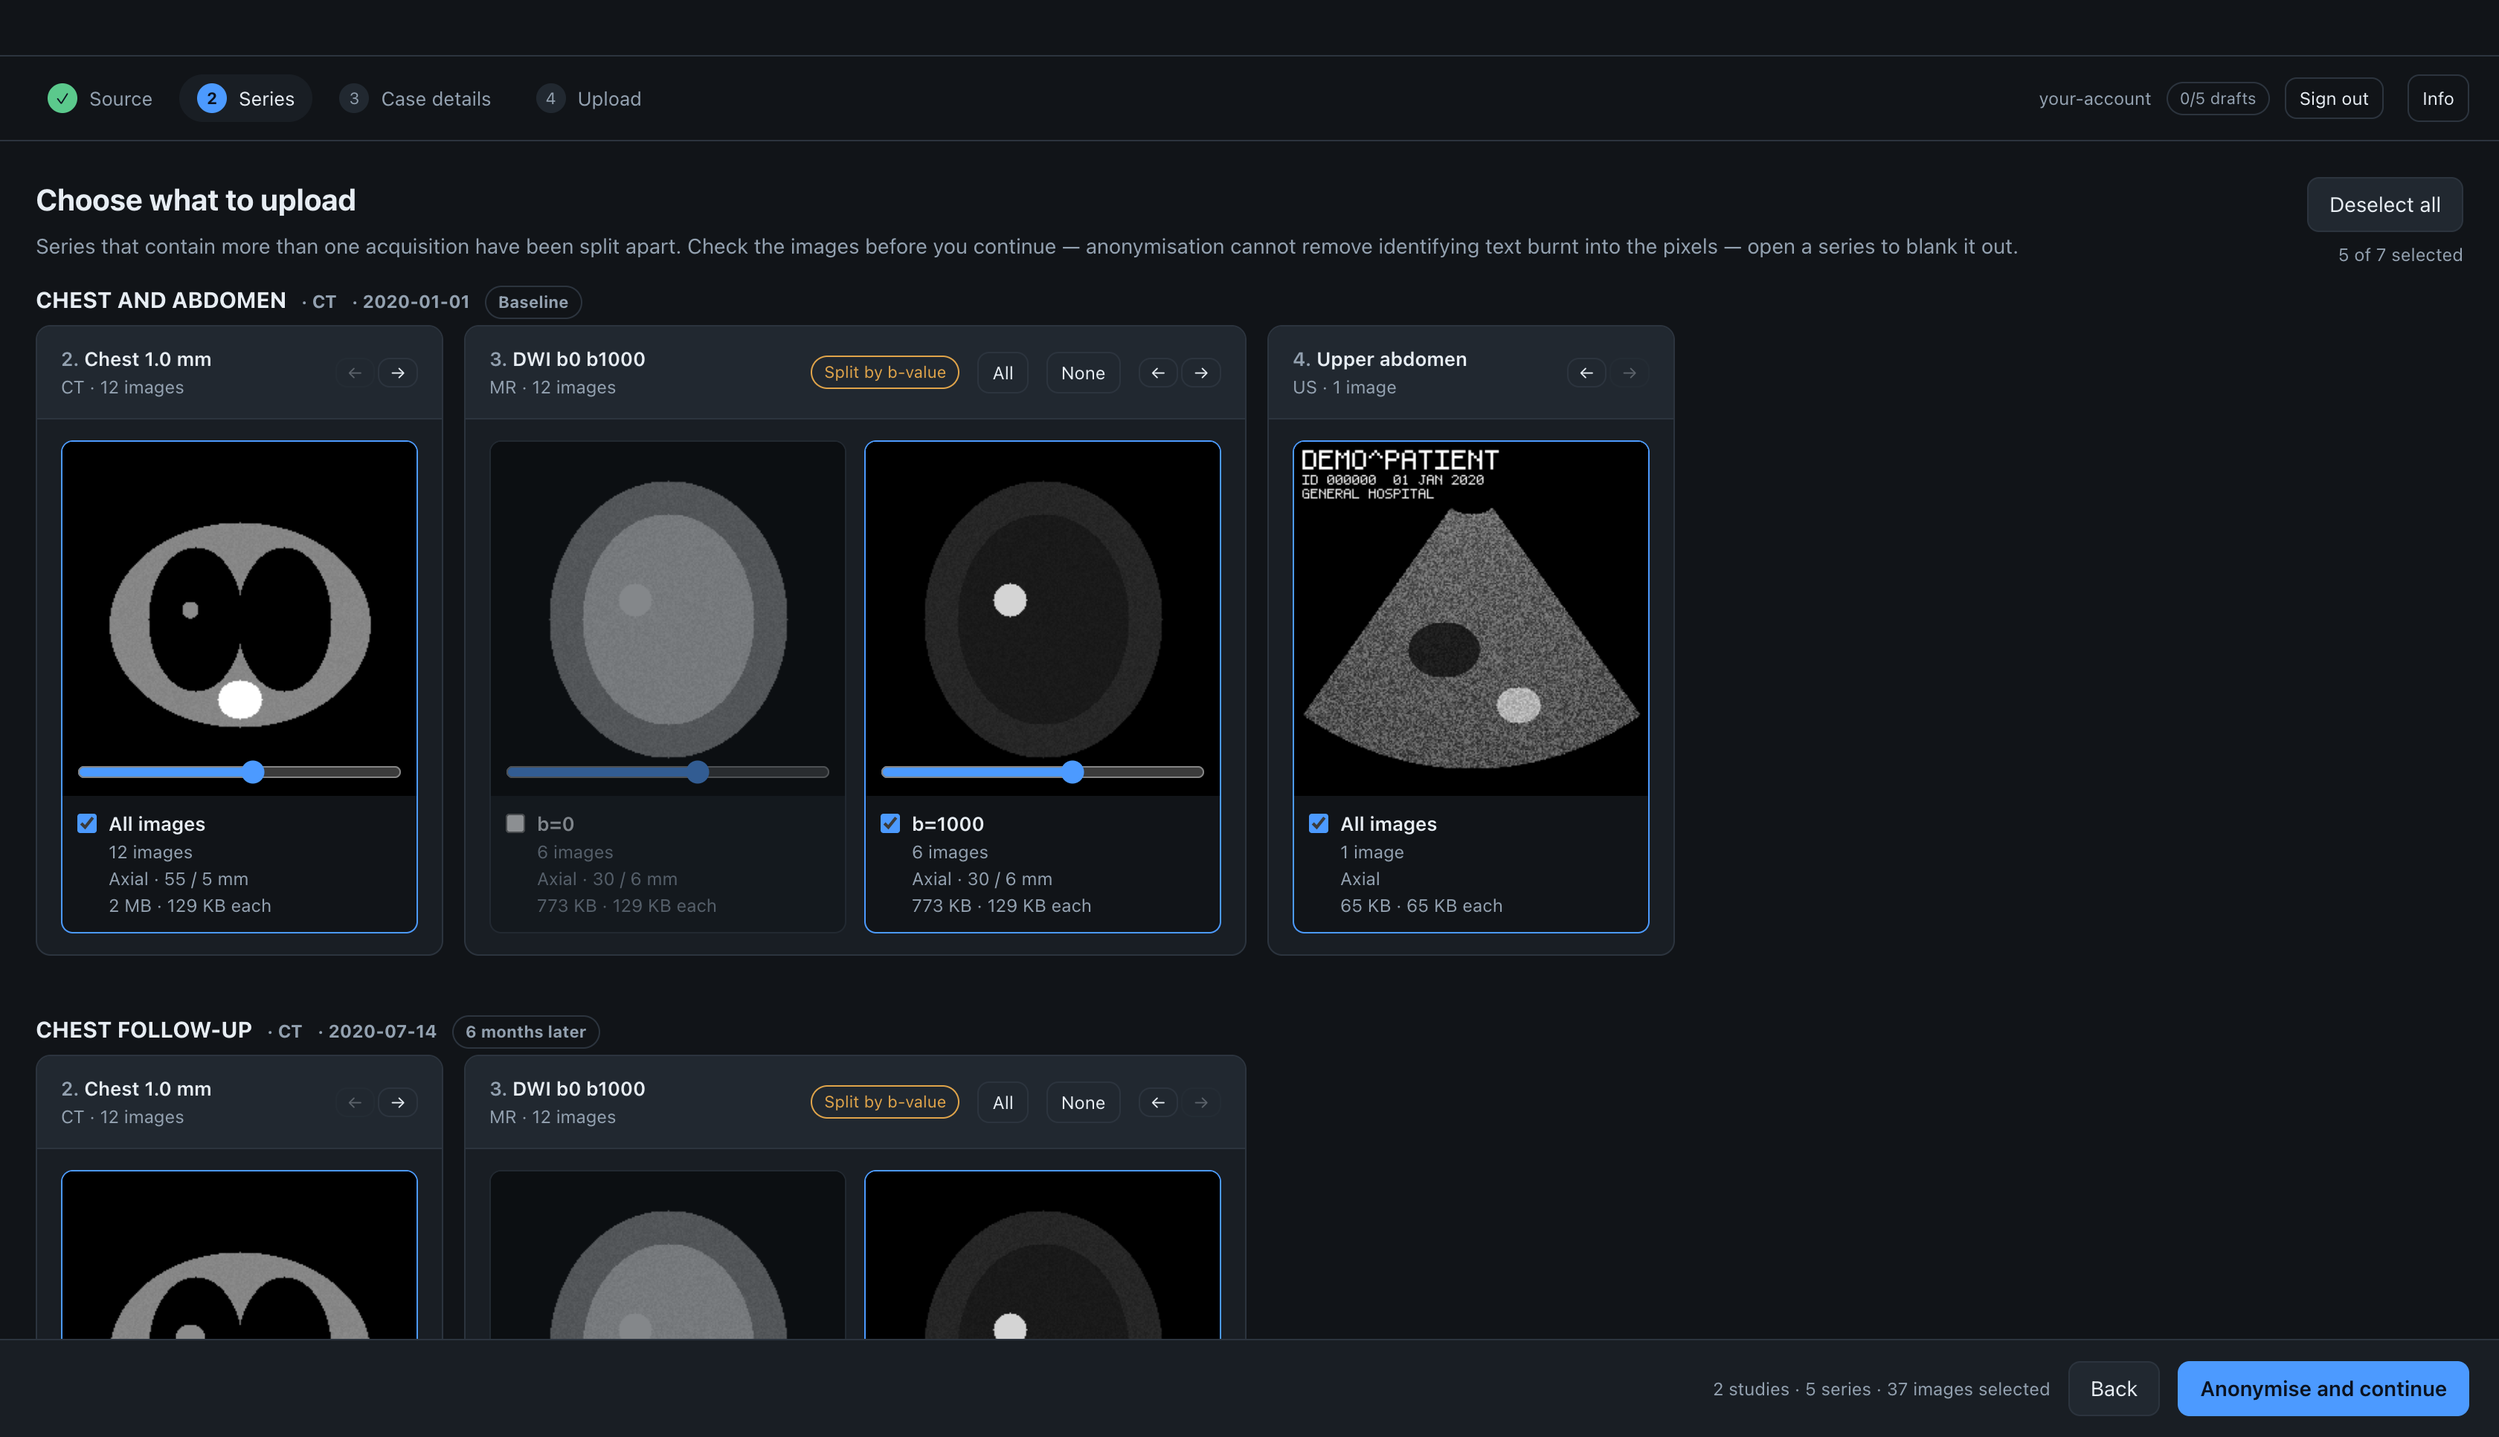
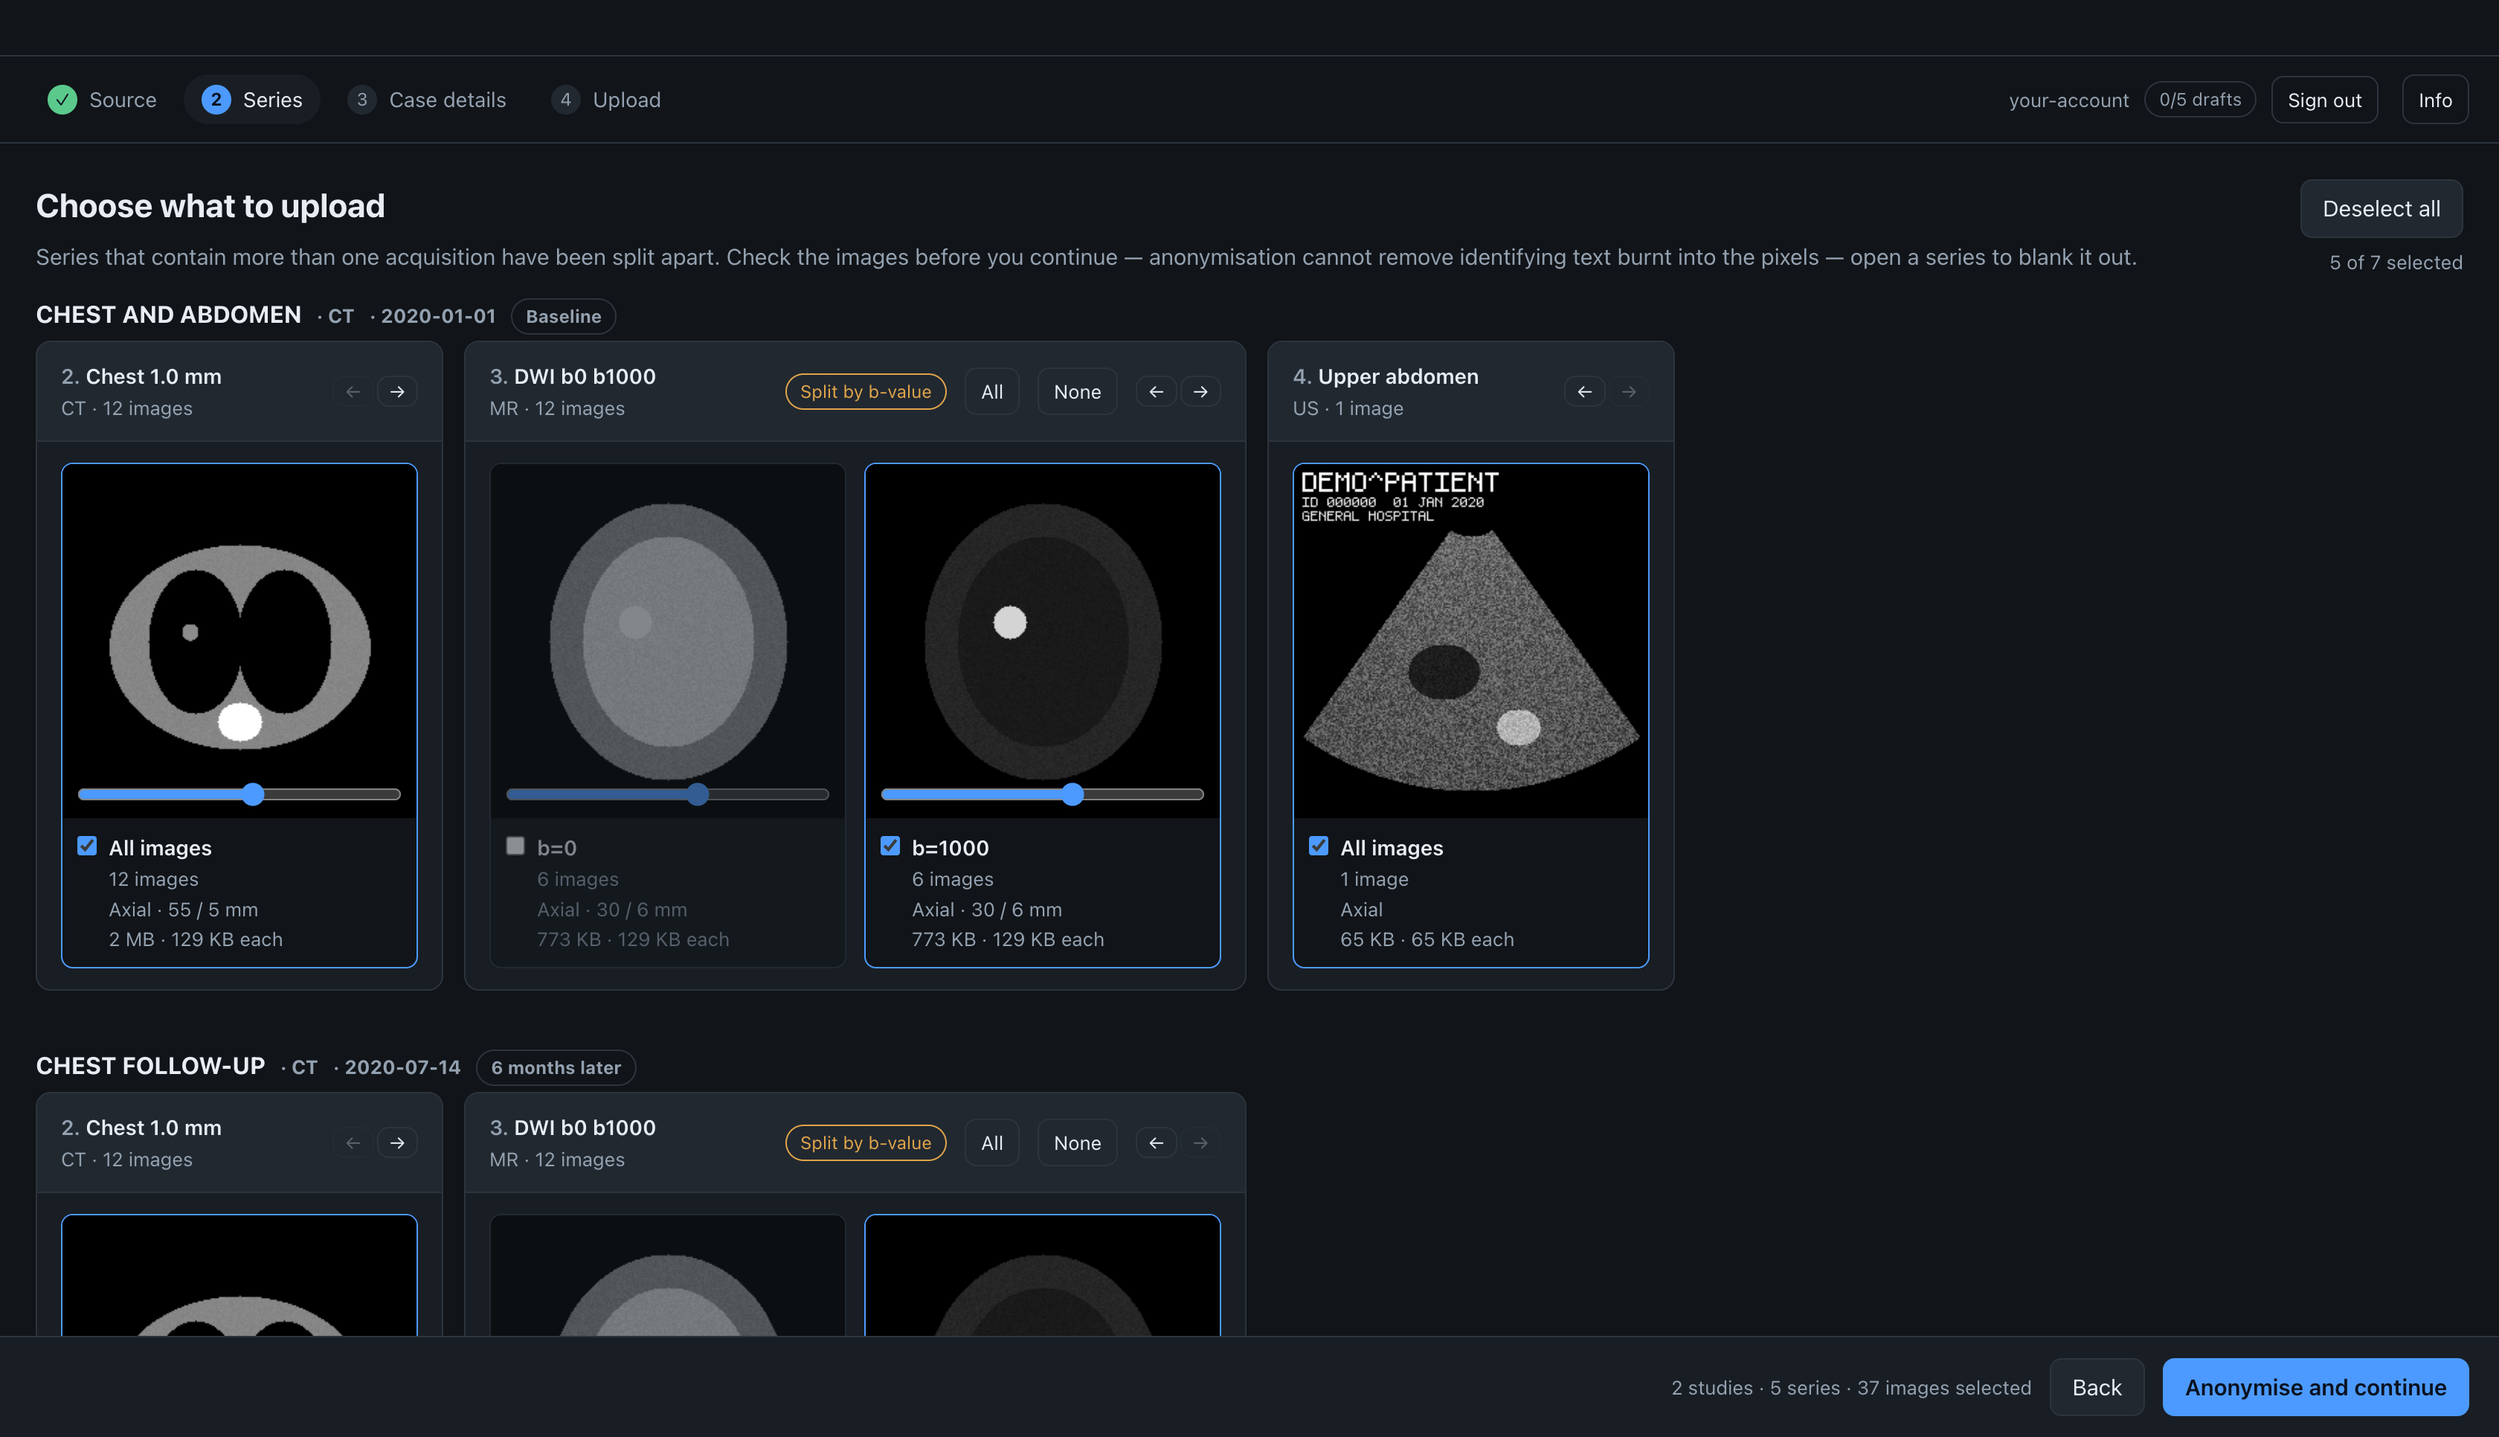
Put the app's own mark on the home screen, and set the type a size up
The first screen named the app in text and nothing else, while the icon it was
launched from sat in the Dock a few pixels away. It shows the same mark now,
cut from the same artwork by `npm run icon` — a third output at 256 pixels
beside the 1024 icon and the documentation's favicon, because the 1024 one is
half a megabyte to draw at 96.

It is inlined as a data URI rather than emitted beside the bundle. The window is
loaded from a `file://` URL, where the page's own `'self'` does not cover a
sibling file; the content security policy in `index.html` allows `data:` for
images, and that is the whole of what it allows.

The base size goes from 14 to 15 and the rest follows it up a pixel, along with
the line height. The app is read at arm's length on a clinical monitor, often
next to a PACS window that is already dense, and 14 was chosen for a layout
rather than for a reader. Nothing reflows: the widths that mattered — the stack
card, the trim numbers, the slider labels — were checked on the regenerated
screenshots rather than reasoned about.

Which is what all ten of those are: rebuilt from the running app, so they also
pick up the **Drop image** button the previous commit added.

diff --git a/src/renderer/src/styles.css b/src/renderer/src/styles.css
@@ -19,7 +19,7 @@ body {
   margin: 0;
   background: var(--bg);
   color: var(--text);
-  font: 14px/1.5 -apple-system, BlinkMacSystemFont, 'Segoe UI', Roboto, sans-serif;
+  font: 15px/1.55 -apple-system, BlinkMacSystemFont, 'Segoe UI', Roboto, sans-serif;
   -webkit-font-smoothing: antialiased;
 }
 
@@ -36,7 +36,7 @@ button:hover:not(:disabled) { border-color: var(--accent); }
 button:disabled { opacity: 0.45; cursor: not-allowed; }
 button.primary { background: var(--accent); color: var(--accent-ink); border-color: var(--accent); font-weight: 600; }
 button.ghost { background: transparent; }
-button.small { padding: 4px 9px; font-size: 12px; }
+button.small { padding: 5px 10px; font-size: 13px; }
 
 input, textarea, select {
   font: inherit;
@@ -73,12 +73,12 @@ textarea { resize: vertical; min-height: 84px; }
 .step {
   display: flex; align-items: center; gap: 8px;
   padding: 6px 12px; border-radius: 999px;
-  color: var(--muted); font-size: 13px;
+  color: var(--muted); font-size: 14px;
 }
 .step .n {
   width: 20px; height: 20px; border-radius: 50%;
   display: grid; place-items: center;
-  background: var(--panel-2); font-size: 11px;
+  background: var(--panel-2); font-size: 12px;
 }
 .step.active { color: var(--text); background: var(--panel); }
 .step.active .n { background: var(--accent); color: var(--accent-ink); font-weight: 700; }
@@ -103,11 +103,11 @@ textarea { resize: vertical; min-height: 84px; }
   padding: 18px;
 }
 
-h1 { font-size: 20px; margin: 0 0 6px; }
-h2 { font-size: 15px; margin: 0 0 4px; }
-h3 { font-size: 13px; margin: 0; font-weight: 600; }
+h1 { font-size: 22px; margin: 0 0 6px; }
+h2 { font-size: 16px; margin: 0 0 4px; }
+h3 { font-size: 14px; margin: 0; font-weight: 600; }
 .muted { color: var(--muted); }
-.small { font-size: 12px; }
+.small { font-size: 13px; }
 
 .drop {
   display: grid; place-items: center; gap: 16px;
@@ -143,7 +143,7 @@ h3 { font-size: 13px; margin: 0; font-weight: 600; }
 .series-head > div:first-child { min-width: 0; }
 .series-head h3 { white-space: nowrap; overflow: hidden; text-overflow: ellipsis; }
 .badge {
-  font-size: 11px; padding: 2px 8px; border-radius: 999px;
+  font-size: 12px; padding: 2px 9px; border-radius: 999px;
   border: 1px solid var(--border); color: var(--muted);
 }
 .badge.split { color: var(--warn); border-color: var(--warn); }
@@ -161,11 +161,11 @@ h3 { font-size: 13px; margin: 0; font-weight: 600; }
 }
 .stack.on { opacity: 1; border-color: var(--accent); }
 .stack.blocked { opacity: 0.85; border-color: color-mix(in srgb, var(--warn) 40%, transparent); }
-.stack-blocked { padding: 0 10px 10px; font-size: 11px; line-height: 1.4; color: var(--warn); }
+.stack-blocked { padding: 0 10px 10px; font-size: 12px; line-height: 1.4; color: var(--warn); }
 
 .stack-preview { position: relative; aspect-ratio: 1; background: #000; display: grid; place-items: center; }
 .stack-preview canvas { width: 100%; height: 100%; object-fit: contain; display: block; }
-.stack-preview .placeholder { color: var(--muted); font-size: 11px; text-align: center; padding: 8px; }
+.stack-preview .placeholder { color: var(--muted); font-size: 12px; text-align: center; padding: 8px; }
 .stack-preview input[type='range'] {
   position: absolute; bottom: 6px; left: 8px; right: 8px; width: auto; padding: 0;
   accent-color: var(--accent); background: transparent; border: none;
@@ -176,12 +176,12 @@ h3 { font-size: 13px; margin: 0; font-weight: 600; }
 
 .rows { display: grid; gap: 14px; }
 .row2 { display: grid; grid-template-columns: 1fr 1fr; gap: 14px; }
-label.field { display: grid; gap: 5px; font-size: 12px; color: var(--muted); }
+label.field { display: grid; gap: 5px; font-size: 13px; color: var(--muted); }
 
 .progress { height: 6px; background: var(--panel-2); border-radius: 99px; overflow: hidden; }
 .progress > div { height: 100%; background: var(--accent); transition: width 0.15s; }
 
-.notice { border-radius: 8px; padding: 10px 12px; font-size: 13px; border: 1px solid; }
+.notice { border-radius: 8px; padding: 10px 12px; font-size: 14px; border: 1px solid; }
 .notice.warn { color: var(--warn); border-color: color-mix(in srgb, var(--warn) 40%, transparent); background: color-mix(in srgb, var(--warn) 10%, transparent); }
 .notice.error { color: var(--danger); border-color: color-mix(in srgb, var(--danger) 40%, transparent); background: color-mix(in srgb, var(--danger) 10%, transparent); }
 .notice.ok { color: var(--ok); border-color: color-mix(in srgb, var(--ok) 40%, transparent); background: color-mix(in srgb, var(--ok) 10%, transparent); }
@@ -201,19 +201,19 @@ label.field { display: grid; gap: 5px; font-size: 12px; color: var(--muted); }
 .stack-preview canvas.dropped { opacity: 0.28; }
 .dropped-tag {
   position: absolute; top: 8px; right: 8px;
-  font-size: 10px; letter-spacing: 0.04em; text-transform: uppercase;
+  font-size: 11px; letter-spacing: 0.04em; text-transform: uppercase;
   color: var(--danger); border: 1px solid var(--danger); border-radius: 999px;
   padding: 2px 7px; background: color-mix(in srgb, var(--bg) 70%, transparent);
 }
 
 .trim { display: grid; gap: 5px; padding: 9px 10px 3px; border-top: 1px solid var(--border); }
-.trim label { display: flex; align-items: center; gap: 8px; font-size: 11px; color: var(--muted); }
+.trim label { display: flex; align-items: center; gap: 8px; font-size: 12px; color: var(--muted); }
 .trim label > span:first-child { width: 30px; flex: none; }
 .trim label .n { width: 30px; flex: none; text-align: right; font-variant-numeric: tabular-nums; }
 .trim input[type='range'] { flex: 1; padding: 0; border: none; background: transparent; accent-color: var(--accent); }
 .trim button { margin-top: 2px; }
 
-.trim-toggle { flex: none; align-self: flex-start; padding: 3px 8px; font-size: 11px; }
+.trim-toggle { flex: none; align-self: flex-start; padding: 3px 9px; font-size: 12px; }
 .trim-toggle.on { color: var(--warn); border-color: var(--warn); }
 /* The toggle is a quiet affordance until the card is hovered or already trimmed. */
 .stack .trim-toggle { opacity: 0; transition: opacity 0.12s; }
@@ -250,7 +250,7 @@ label.field { display: grid; gap: 5px; font-size: 12px; color: var(--muted); }
   display: flex; align-items: center; gap: 12px;
   padding: 12px 16px; border-bottom: 1px solid var(--border); background: var(--panel-2);
 }
-.viewer-head h2 { font-size: 14px; }
+.viewer-head h2 { font-size: 15px; }
 /* Not scoped to the header: the reformat footer and the case form use a row of
    these too, and outside the header they were unstyled and wrapped. */
 .tools { display: flex; align-items: center; gap: 6px; }
@@ -271,7 +271,7 @@ label.field { display: grid; gap: 5px; font-size: 12px; color: var(--muted); }
 /* The element box is sized in JS to the image's aspect ratio, so a pointer
    position on it is a position in the image — no letterboxing to correct for. */
 .viewer-stage.erasing canvas, .viewer-stage.cropping canvas { cursor: crosshair; }
-.viewer-stage .placeholder { color: var(--muted); font-size: 12px; text-align: center; }
+.viewer-stage .placeholder { color: var(--muted); font-size: 13px; text-align: center; }
 
 /* The masks are already painted black on the canvas; this layer is the outline
    and the grips, so a box drawn in the wrong place can be put right. */
@@ -326,11 +326,11 @@ label.field { display: grid; gap: 5px; font-size: 12px; color: var(--muted); }
 .reformat-panel canvas { width: 100%; height: 100%; display: block; touch-action: none; cursor: crosshair; }
 .reformat-panel.result canvas { cursor: move; }
 .reformat-panel .tag {
-  position: absolute; left: 8px; top: 6px; font-size: 11px; color: var(--muted); pointer-events: none;
+  position: absolute; left: 8px; top: 6px; font-size: 12px; color: var(--muted); pointer-events: none;
 }
 .reformat-panel.result .tag { color: var(--accent); }
 .reformat-panel .placeholder {
-  position: absolute; inset: 0; display: grid; place-items: center; color: var(--muted); font-size: 12px;
+  position: absolute; inset: 0; display: grid; place-items: center; color: var(--muted); font-size: 13px;
 }
 
 .viewer-controls { flex: none; display: grid; gap: 8px; padding: 12px 16px; border-top: 1px solid var(--border); }
@@ -340,7 +340,7 @@ label.field { display: grid; gap: 5px; font-size: 12px; color: var(--muted); }
 .viewer-row { display: flex; align-items: center; gap: 10px; }
 .viewer-row .viewer-slider { flex: 1; min-width: 0; }
 .viewer-row button { flex: none; }
-.viewer-slider { display: flex; align-items: center; gap: 10px; font-size: 12px; color: var(--muted); }
+.viewer-slider { display: flex; align-items: center; gap: 10px; font-size: 13px; color: var(--muted); }
 .viewer-slider > span:first-child { width: 52px; flex: none; }
 .viewer-slider .n { width: 64px; flex: none; text-align: right; font-variant-numeric: tabular-nums; }
 .viewer-slider input[type='range'] { flex: 1; padding: 0; border: none; background: transparent; accent-color: var(--accent); }
@@ -349,8 +349,12 @@ label.field { display: grid; gap: 5px; font-size: 12px; color: var(--muted); }
 
 /* The home screen names the app before it asks for anything. */
 .home { display: grid; justify-items: center; gap: 22px; }
-.home-title { text-align: center; display: grid; gap: 2px; }
-.home-title h1 { font-size: 26px; margin: 0; letter-spacing: -0.01em; }
+.home-title { text-align: center; display: grid; gap: 2px; justify-items: center; }
+/* The same mark as the Dock icon, cut from the same artwork by npm run icon.
+   Inlined by the bundler, because the page is loaded from a file:// URL where
+   'self' does not cover a sibling file — data: does, and the CSP already says so. */
+.home-logo { width: 96px; height: 96px; margin-bottom: 10px; }
+.home-title h1 { font-size: 28px; margin: 0; letter-spacing: -0.01em; }
 .home-title p { margin: 0; }
 
 .steps > button { flex: none; margin-left: 10px; }
@@ -383,7 +387,7 @@ label.field { display: grid; gap: 5px; font-size: 12px; color: var(--muted); }
 }
 .check-item .shot { aspect-ratio: 1; background: #000; display: grid; place-items: center; }
 .check-item canvas { width: 100%; height: 100%; object-fit: contain; display: block; }
-.check-item .placeholder { color: var(--muted); font-size: 10px; text-align: center; padding: 6px; }
-.check-item .cap { padding: 0 8px; font-size: 11px; line-height: 1.35; color: var(--muted); }
+.check-item .placeholder { color: var(--muted); font-size: 11px; text-align: center; padding: 6px; }
+.check-item .cap { padding: 0 8px; font-size: 12px; line-height: 1.35; color: var(--muted); }
 .check-item .cap .name { display: block; color: var(--text); }
 .check-item.flagged { outline: 1px solid color-mix(in srgb, var(--warn) 55%, transparent); }

diff --git a/src/renderer/src/components/SourceStep.tsx b/src/renderer/src/components/SourceStep.tsx
@@ -1,6 +1,10 @@
 import { useState } from 'react'
 import type { AppInfo } from '@shared/types'
 import { APP_NAME, APP_TAGLINE } from '../about'
+// Inlined as a data URI rather than emitted beside the bundle: the window is
+// loaded from a file:// URL, where the page's own 'self' does not cover a
+// sibling file, and the CSP in index.html allows data: for images.
+import logo from '../assets/logo.png?inline'
 
 interface Props {
   onPick: (kind: 'folder' | 'zip') => void
@@ -18,6 +22,8 @@ export function SourceStep({ onPick, onDropPaths, busy, blocked, info }: Props):
   return (
     <div className="home">
       <div className="home-title">
+        {/* The mark, not a picture of anything: the name is right under it. */}
+        <img className="home-logo" src={logo} alt="" width={96} height={96} />
         <h1>{APP_NAME}</h1>
         <p className="muted">{APP_TAGLINE}</p>
         {/* Version and platform, so a bug report can quote them. The blank keeps
